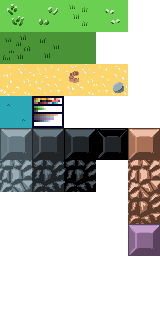
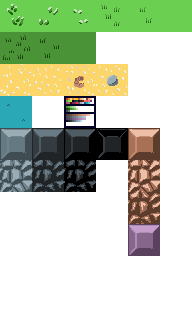
grass more variants and on cover replace

diff --git a/Scenes/GameScene.cs b/Scenes/GameScene.cs
@@ -8,6 +8,7 @@ using MineGameB.World;
 using MineGameB.World.Objects;
 using MineGameB.World.Tiles;
 using System;
+using System.Diagnostics;
 using System.Linq;
 using System.Reflection.Emit;
 using System.Threading.Tasks;
@@ -17,7 +18,7 @@ public class GameScene() : Scene("game") {
     public static Map CaveMap { get; set; }
     public static Map SurfaceMap { get; set; }
     public static Map LocalMap { get; set; }
-    public static LoadingScreen loadingScreen { get; set; }
+    public static LoadingScreen LoadingScreen { get; set; }
 
     public static TileRegister TileRegister { get; set; }
 
@@ -31,7 +32,7 @@ public class GameScene() : Scene("game") {
 
     MouseState ms, lms;
 
-    public static Player Player = new();
+    public static Player Player { get; set; } = new();
 
 #pragma warning disable IDE0079
 #pragma warning disable CA1822
@@ -114,6 +115,10 @@ public class GameScene() : Scene("game") {
             return register(new Tile(tileset, new(px * t, py * t, t, t), name));
         }
 
+        Random TileCoveredRandomizer = new();
+        Func<int, int, int> randSand = (myId, overId) => TileRegister.GetIdByName("sandVar1") + TileCoveredRandomizer.Next(0, 1);
+        Func<int, int, int> randGrass = (myId, overId) => TileRegister.GetIdByName("grassVar6");
+
         register(new(CaveTileset, new(0, 64, 32, 32), "debug")).SetMapColor(Color.Magenta);
         register(new(CaveTileset, new(32, 64, 32, 32), "blank_white")).SetMapColor(Color.White).SetDrawColor(Color.White);
         register(new(CaveTileset, new(32, 64, 32, 32), "blank_blue")).SetMapColor(Color.AliceBlue).SetDrawColor(Color.AliceBlue);
@@ -122,21 +127,23 @@ public class GameScene() : Scene("game") {
         newTile(CaveTileset, "floor2", 1, 0).SetMapColor(Color.DarkGray);
         newTile(CaveTileset, "wall", 3, 0).SetMapColor(Color.Gray).SetSolid().SetDurity(150f).SetLightPassable(false);
 
-        newTile(SurfaceTileset, "grassVar1", 0, 0).SetMapColor(Color.LightGreen);
-        newTile(SurfaceTileset, "grassVar2", 1, 0).SetMapColor(Color.LightGreen);
-        newTile(SurfaceTileset, "grassVar3", 2, 0).SetMapColor(Color.LightGreen);
+        newTile(SurfaceTileset, "grassVar1", 0, 0).SetMapColor(Color.LightGreen).SetTransformIntoAfterCover(randGrass);
+        newTile(SurfaceTileset, "grassVar2", 1, 0).SetMapColor(Color.LightGreen).SetTransformIntoAfterCover(randGrass);
+        newTile(SurfaceTileset, "grassVar3", 2, 0).SetMapColor(Color.LightGreen).SetTransformIntoAfterCover(randGrass);
         newTile(SurfaceTileset, "grassVar4", 3, 0).SetMapColor(Color.LightGreen);
+        newTile(SurfaceTileset, "grassVar5", 4, 0).SetMapColor(Color.LightGreen);
+        newTile(SurfaceTileset, "grassVar6", 5, 0).SetMapColor(Color.LightGreen);
 
         newTile(SurfaceTileset, "forestVar1", 0, 1).SetMapColor(Color.Green);
         newTile(SurfaceTileset, "forestVar2", 1, 1).SetMapColor(Color.Green);
         newTile(SurfaceTileset, "forestVar3", 2, 1).SetMapColor(Color.Green);
 
+        var yellow = new Color(250, 255, 160);
         newTile(SurfaceTileset, "water", 0, 3).SetMapColor(Color.LightBlue).SetSolid();
-        newTile(SurfaceTileset, "sandVar1", 0, 2).SetMapColor(Color.LightGoldenrodYellow);
-        newTile(SurfaceTileset, "sandVar2", 1, 2).SetMapColor(Color.LightGoldenrodYellow);
-        Func<int, int, int> randSand = (myId, overId) => TileRegister.GetIdByName("sandVar1") + new Random().Next(0, 1);
-        newTile(SurfaceTileset, "sandVar3", 2, 2).SetMapColor(Color.LightGoldenrodYellow).SetTransformIntoAfterCover(randSand);
-        newTile(SurfaceTileset, "sandVar4", 3, 2).SetMapColor(Color.LightGoldenrodYellow).SetTransformIntoAfterCover(randSand);
+        newTile(SurfaceTileset, "sandVar1", 0, 2).SetMapColor(yellow);
+        newTile(SurfaceTileset, "sandVar2", 1, 2).SetMapColor(yellow);
+        newTile(SurfaceTileset, "sandVar3", 2, 2).SetMapColor(yellow).SetTransformIntoAfterCover(randSand);
+        newTile(SurfaceTileset, "sandVar4", 3, 2).SetMapColor(yellow).SetTransformIntoAfterCover(randSand);
 
         newTile(SurfaceTileset, "mountain", 0, 5).SetMapColor(Color.LightGray).SetSolid().SetDurity(150f).SetLightPassable(false);
         newTile(SurfaceTileset, "highMountain", 1, 5).SetMapColor(Color.DarkGray).SetSolid().SetDurity(450f).SetLightPassable(false);
@@ -148,20 +155,20 @@ public class GameScene() : Scene("game") {
         // CaveMap.NewGenerate(CaveMap.Generator.GenerateWallAnd2FloorVariant("wall", "floor1", "floor2").Tiles);
 
         SpriteFont font = Content.Load<SpriteFont>("Font");
-        loadingScreen = new LoadingScreen(font);
+        LoadingScreen = new LoadingScreen(font);
 
         SurfaceMap = new Map();
         SurfaceMap.Generator.OnProgressUpdate += (progress, message) => {
-            loadingScreen.Progress = progress;
-            loadingScreen.Message = message;
+            LoadingScreen.Progress = progress;
+            LoadingScreen.Message = message;
         };
 
-        loadingScreen.IsVisible = true;
+        LoadingScreen.IsVisible = true;
 
         Task.Run(async () => {
             var tiles = await SurfaceMap.Generator.GenerateTopograficMapAsync();
             SurfaceMap.NewGenerate(tiles);
-            loadingScreen.IsVisible = false;
+            LoadingScreen.IsVisible = false;
             isMapReady = true;
         });
 
@@ -174,8 +181,11 @@ public class GameScene() : Scene("game") {
         base.Load();
     }
 
+    bool wasMapReady = false;
     public override void Update(GameTime gameTime) {
-        loadingScreen.Update(gameTime);
+        LoadingScreen.Update(gameTime);
+        bool isMapJustReady = !wasMapReady && isMapReady;
+        wasMapReady = isMapReady;
 
         if (!isMapReady) {
             base.Update(gameTime);
@@ -188,7 +198,8 @@ public class GameScene() : Scene("game") {
         }
 
         // Set player position on first frame after generation
-        if (Player.Center == Point.Zero) {
+        if (isMapJustReady) {
+            Debug.WriteLine("Map is ready.");
             Player.SetPosition(new Vector2(LocalMap.WorldWidth / 2, LocalMap.WorldHeight / 2));
             Camera.MoveHardTo(Player.Center.ToVector2());
         }
@@ -200,10 +211,13 @@ public class GameScene() : Scene("game") {
 
         var LS = Keyboard.GetState().IsKeyDown(Keys.LeftShift);
         var LC = Keyboard.GetState().IsKeyDown(Keys.LeftControl);
+        var F = Keyboard.GetState().IsKeyDown(Keys.F);
 
         if (LS) {
             Camera.ScaleIndependent(gameTime, 100f, 7f, 0.008f);
             Camera.MoveIndependent(gameTime, LC ? 20000 : 3000);
+            if (F)
+                Player.SetPosition(Camera.MouseWorld);
         } else {
             Camera.ScaleIndependent(gameTime, 100f, 7f, 0.55f);
             Camera.MoveTo(gameTime, Player.Center.ToVector2());
@@ -235,7 +249,7 @@ public class GameScene() : Scene("game") {
         Game1Inst.DrawBackground(Color.CornflowerBlue);
 
         if (!isMapReady) {
-            loadingScreen.Draw(spriteBatch);
+            LoadingScreen.Draw(spriteBatch);
             base.Draw(spriteBatch);
             return;
         }
@@ -248,7 +262,7 @@ public class GameScene() : Scene("game") {
         if (useShadowEffect)
             shadowEffect.Draw(spriteBatch);
 
-        loadingScreen.Draw(spriteBatch);
+        LoadingScreen.Draw(spriteBatch);
         base.Draw(spriteBatch);
     }
 }

diff --git a/World/Generator.cs b/World/Generator.cs
@@ -305,31 +305,39 @@ public class Generator {
 
     // ASYNC version with detailed progress tracking
     public async Task<int[,,]> GenerateTopograficMapAsync() {
-        return await Task.Run(() => {
+        return await Task.Run(() =>
+        {
             var rng = new Random(GetSeed());
             InitializePermutation(rng); // Initialize permutation array FIRST
-            var TileRegister = GameScene.TileRegister;
 
+            var TileRegister = GameScene.TileRegister;
             int[,,] tiles = new int[Width, Height, Depth];
 
-            // Step 1: Generate elevation noise (0-30%)
-            OnProgressUpdate?.Invoke(0.0f, "Generating elevation map...");
+            // Step 1: Generate elevation noise (0-25%)
+            OnProgressUpdate?.Invoke(0.0f, "Initializing elevation map...");
             var elevationNoise = GenerateNoiseMap(
                 Width, Height, rng,
-                scale: 240f, octaves: 6, persistence: 0.5f, lacunarity: 2.0f);
+                scale: 240f,
+                octaves: 6,
+                persistence: 0.5f,
+                lacunarity: 2.0f);
+            OnProgressUpdate?.Invoke(0.25f, "Elevation map complete");
 
-            // Step 2: Generate moisture noise (30-50%)
-            OnProgressUpdate?.Invoke(0.3f, "Generating moisture map...");
+            // Step 2: Generate moisture noise (25-45%)
+            OnProgressUpdate?.Invoke(0.25f, "Initializing moisture map...");
             var moistureNoise = GenerateNoiseMap(
                 Width, Height, new Random(rng.Next()),
-                scale: 180f, octaves: 4, persistence: 0.4f, lacunarity: 2.5f);
+                scale: 180f,
+                octaves: 4,
+                persistence: 0.4f,
+                lacunarity: 2.5f);
+            OnProgressUpdate?.Invoke(0.45f, "Moisture map complete");
 
-            // Step 3: Process tiles (50-100%)
-            OnProgressUpdate?.Invoke(0.5f, "Placing terrain tiles...");
-
+            // Step 3: Process tiles (45-100%)
+            OnProgressUpdate?.Invoke(0.45f, "Beginning terrain placement...");
             int totalTiles = Width * Height;
             int processedTiles = 0;
-            int updateInterval = Math.Max(1, totalTiles / 100); // Update every 1% of tiles
+            int updateInterval = Math.Max(1, totalTiles / 200); // Update every 0.5% for smoother progress
 
             for (int x = 0; x < Width; x++) {
                 for (int y = 0; y < Height; y++) {
@@ -340,7 +348,6 @@ public class Generator {
                     float distX = Math.Min(x, Width - 1 - x);
                     float distY = Math.Min(y, Height - 1 - y);
                     float dist = Math.Min(distX, distY);
-
                     float borderNoise = (elevation + moisture) * 3f;
                     bool isBorder = dist < (20f + borderNoise);
 
@@ -356,17 +363,17 @@ public class Generator {
                     if (elevation < 0.3f) {
                         groundId = TileRegister.GetIdByName("water");
                     } else if (elevation < 0.38f) {
-                        int v = GetWeightedRandomVariant(rng, new[] { 10, 10, 1, 1 });
+                        int v = GetWeightedRandomVariant(rng, [10, 10, 1, 1]);
                         groundId = TileRegister.GetIdByName("sandVar1") + v;
                     } else {
                         if (moisture < 0.3f) {
-                            int v = GetWeightedRandomVariant(rng, new[] { 5, 5 });
+                            int v = GetWeightedRandomVariant(rng, [5, 5]);
                             groundId = TileRegister.GetIdByName("sandVar1") + v;
                         } else if (moisture > 0.5f) {
-                            int v = GetWeightedRandomVariant(rng, new[] { 5, 5, 3 });
+                            int v = GetWeightedRandomVariant(rng, [5, 5, 3]);
                             groundId = TileRegister.GetIdByName("forestVar1") + v;
                         } else {
-                            int v = GetWeightedRandomVariant(rng, new[] { 7, 7, 7, 1 });
+                            int v = GetWeightedRandomVariant(rng, [1, 1, 1, 40, 40, 5]);
                             groundId = TileRegister.GetIdByName("grassVar1") + v;
                         }
                     }
@@ -385,11 +392,12 @@ public class Generator {
 
                     tiles[x, y, 1] = mountainId;
 
-                    // Update progress periodically
+                    // Update progress more frequently for smoother progression
                     processedTiles++;
                     if (processedTiles % updateInterval == 0) {
-                        float progress = 0.5f + (processedTiles / (float)totalTiles) * 0.5f;
-                        int percentComplete = (int)((processedTiles / (float)totalTiles) * 100);
+                        float tileProgress = processedTiles / (float)totalTiles;
+                        float progress = 0.45f + (tileProgress * 0.55f); // Maps 0-100% of tiles to 45-100% progress
+                        int percentComplete = (int)(tileProgress * 100);
                         OnProgressUpdate?.Invoke(progress, $"Placing tiles... {percentComplete}%");
                     }
                 }

diff --git a/World/LoadingScreen.cs b/World/LoadingScreen.cs
@@ -40,7 +40,8 @@ public class LoadingScreen {
         int screenWidth = viewport.Width;
         int screenHeight = viewport.Height;
 
-        _spriteBatch.Begin();
+        _spriteBatch.Begin(transformMatrix:Game1.Instance.LetterboxUITransform);
+        Game1.Instance.DrawBackground(Color.Black);
 
         // Semi-transparent background overlay
         _spriteBatch.Draw(_pixelTexture,

diff --git a/World/Map.cs b/World/Map.cs
@@ -547,8 +547,6 @@ public class Map {
 
     public void DrawMap(SpriteBatch spriteBatch, Rectangle position) {
         (spriteBatch, position).ToString();
-        if (drawedTexture != null) {
-            spriteBatch.Draw(drawedTexture, position, Color.White);
-        }
+        spriteBatch.Draw(drawedTexture, position, Color.White);
     }
 }
